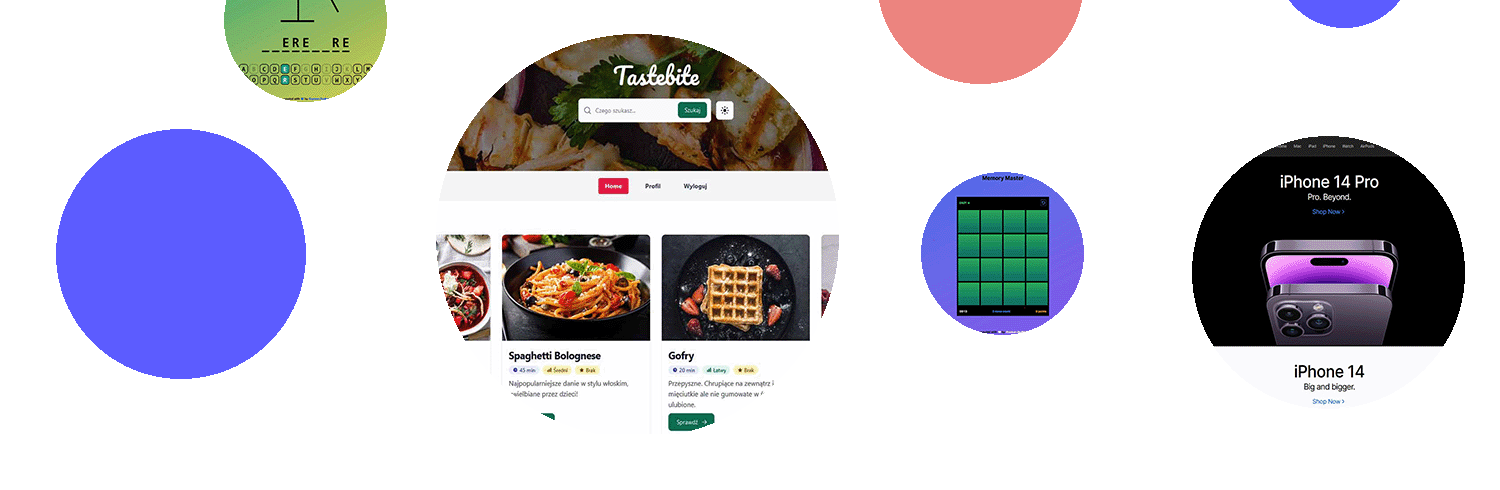
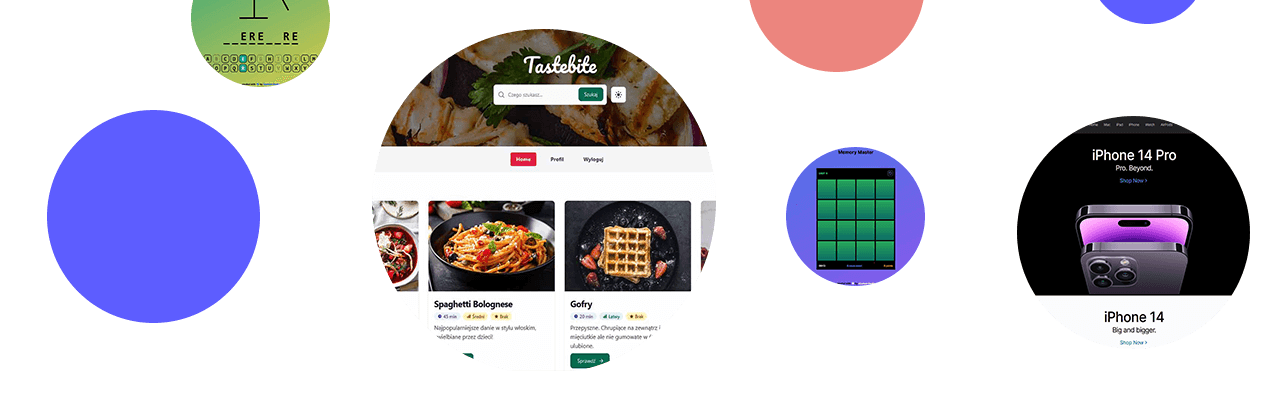
chore: improved styles and optimized images

diff --git a/src/pages/about.tsx b/src/pages/about.tsx
@@ -1,4 +1,3 @@
-import aboutProjects from '@/assets/aboutProjects.png';
 import Article from '@/components/Layout/Article/Article';
 import {
 	linkedinIcon,
@@ -8,7 +7,6 @@ import {
 } from '@/components/UI/Svg/SvgIcons';
 import styles from '@/styles/About.module.css';
 import Head from 'next/head';
-import Image from 'next/image';
 import Link from 'next/link';
 
 function About(): JSX.Element {
@@ -32,16 +30,10 @@ function About(): JSX.Element {
 					<p className={styles.description}>
 						I implement responsive and user-friendly interfaces and API-based
 						applications. I&apos;m constantly gaining new knowledge by creating
-						and improving projects which help me practice my skills. experience.
+						and improving projects which help me practice my skills.
 					</p>
 				</div>
 				<Link href="projects" className={styles.card}>
-					<Image
-						src={aboutProjects}
-						width={590}
-						height={190}
-						alt="Background with project thumbnails"
-					/>
 					<p>Check my projects</p>
 					<div className={styles.flex}>
 						<h3 className={styles.title}>See my work</h3>

diff --git a/src/components/UI/PostCard/PostCard.tsx b/src/components/UI/PostCard/PostCard.tsx
@@ -1,8 +1,8 @@
 import { IPostCard } from '@/lib/interfaces/post';
 import urlFor from '@/lib/sanity/client/urlFor';
 import Link from 'next/link';
-import { rightCircleArrow } from '../Svg/SvgIcons';
-import styles from './ProjectCard.module.css';
+// import { rightCircleArrow } from '../Svg/SvgIcons';
+import styles from './PostCard.module.css';
 
 interface props {
 	post: IPostCard;
@@ -16,7 +16,7 @@ function PostCard({ post }: props): JSX.Element {
 					<img
 						className={styles.img}
 						src={urlFor(post.mainImage).url()}
-						alt={`Preview image of "${post.title}" post`}
+						alt={post.title}
 					/>
 					<p className={styles.type}>{post.technologies[0].title}</p>
 					<div className={styles.info}>

diff --git a/src/components/UI/PostCard/PostCard.module.css b/src/components/UI/PostCard/PostCard.module.css
@@ -11,6 +11,12 @@
 	border-radius: 1rem;
 }
 
+.card a {
+	display: block;
+	width: 100%;
+	height: 100%;
+}
+
 .card svg {
 	width: 40px;
 	height: 40px;
@@ -28,11 +34,7 @@
 	left: 0;
 	width: 100%;
 	height: 100%;
-	background: linear-gradient(
-		to bottom right,
-		var(--theme-primary),
-		var(--theme-secondary)
-	);
+	background: #fff;
 	border-radius: 1rem;
 	filter: blur(5px);
 	opacity: 0;
@@ -51,7 +53,8 @@
 
 .content img {
 	width: 100%;
-	height: 100%;
+	height: 220px;
+	object-fit: cover;
 	border-top-left-radius: 1rem;
 	border-top-right-radius: 1rem;
 	filter: brightness(60%);

diff --git a/src/pages/resume.tsx b/src/pages/resume.tsx
@@ -6,6 +6,7 @@ import Head from 'next/head';
 import Image from 'next/image';
 import Link from 'next/link';
 import { Fragment } from 'react';
+import resumeAvatar from '../assets/resumeAvatar.jpg';
 
 const educationList = [
 	{
@@ -94,7 +95,7 @@ function Resume(): JSX.Element {
 						<div className={styles.avatar}>
 							<div className={styles.image}>
 								<Image
-									src="/avatar.jpg"
+									src={resumeAvatar}
 									alt="Avatar"
 									width={420}
 									height={420}

diff --git a/src/components/UI/ProjectCard/ProjectCard.tsx b/src/components/UI/ProjectCard/ProjectCard.tsx
@@ -28,7 +28,7 @@ export default function ProjectCard({ project }: props): JSX.Element {
 					<img
 						className={styles.img}
 						src={urlFor(project.thumbnail).url()}
-						alt={`Preview image of "${project.title}" project`}
+						alt={project.title}
 					/>
 					<div className={styles.info}>
 						<p className={styles.type}>{project.type.title}</p>

diff --git a/src/components/UI/ProjectCard/ProjectCard.module.css b/src/components/UI/ProjectCard/ProjectCard.module.css
@@ -11,6 +11,12 @@
 	border-radius: 1rem;
 }
 
+.card a {
+	display: block;
+	width: 100%;
+	height: 100%;
+}
+
 .card svg {
 	width: 40px;
 	height: 40px;
@@ -51,7 +57,8 @@
 
 .content img {
 	width: 100%;
-	height: 100%;
+	height: 220px;
+	object-fit: cover;
 	border-top-left-radius: 1rem;
 	border-top-right-radius: 1rem;
 	filter: brightness(60%);

diff --git a/src/styles/About.module.css b/src/styles/About.module.css
@@ -62,6 +62,12 @@
 	letter-spacing: -0.8px;
 }
 
+.card:nth-child(4) {
+	background-image: url('../assets/aboutProjects.png');
+	background-size: 639px auto;
+	background-repeat: no-repeat;
+}
+
 .card:nth-child(4) img {
 	margin-top: -2rem;
 	width: 100%;

diff --git a/src/components/UI/PostCard/PostCards.tsx b/src/components/UI/PostCard/PostCards.tsx
@@ -1,6 +1,6 @@
 import { IPostCard } from '@/lib/interfaces/post';
 import PostCard from './PostCard';
-import styles from './ProjectCard.module.css';
+import styles from './PostCard.module.css';
 
 interface props {
 	postList: IPostCard[];
